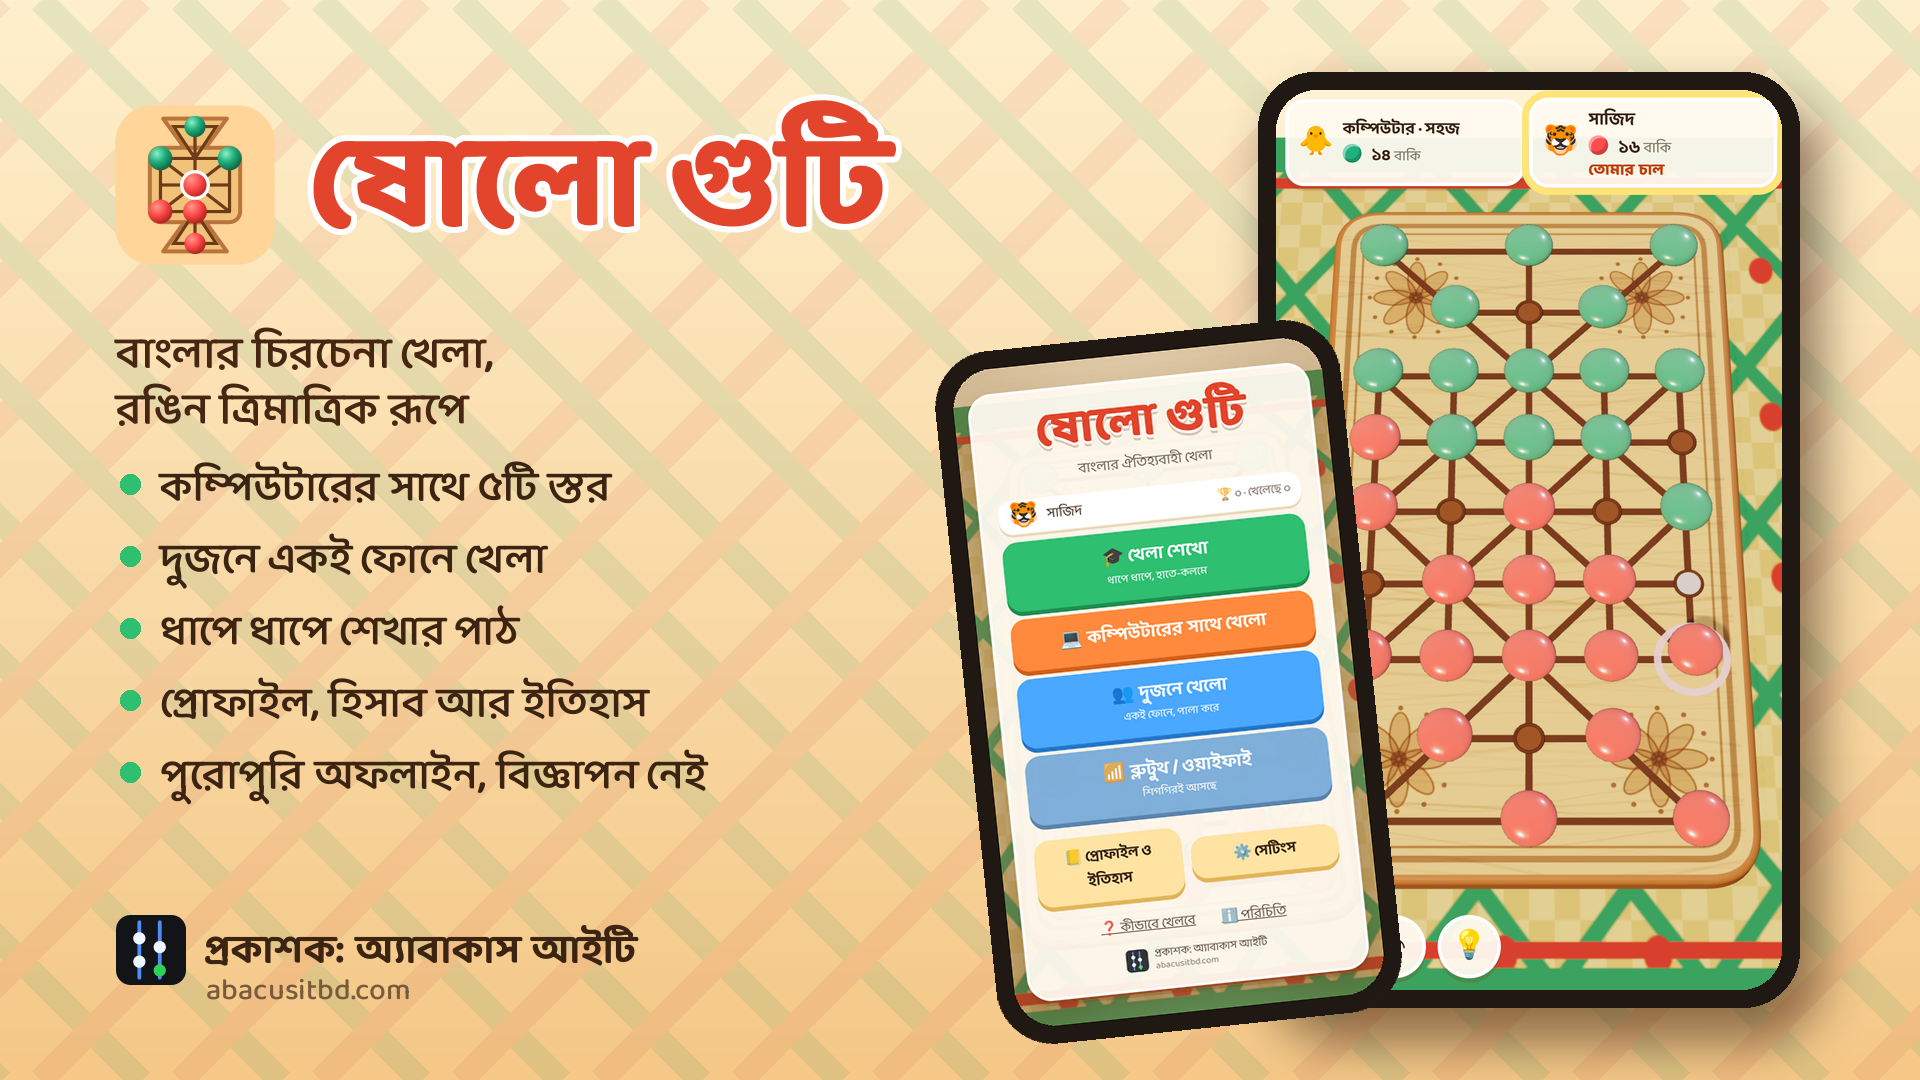
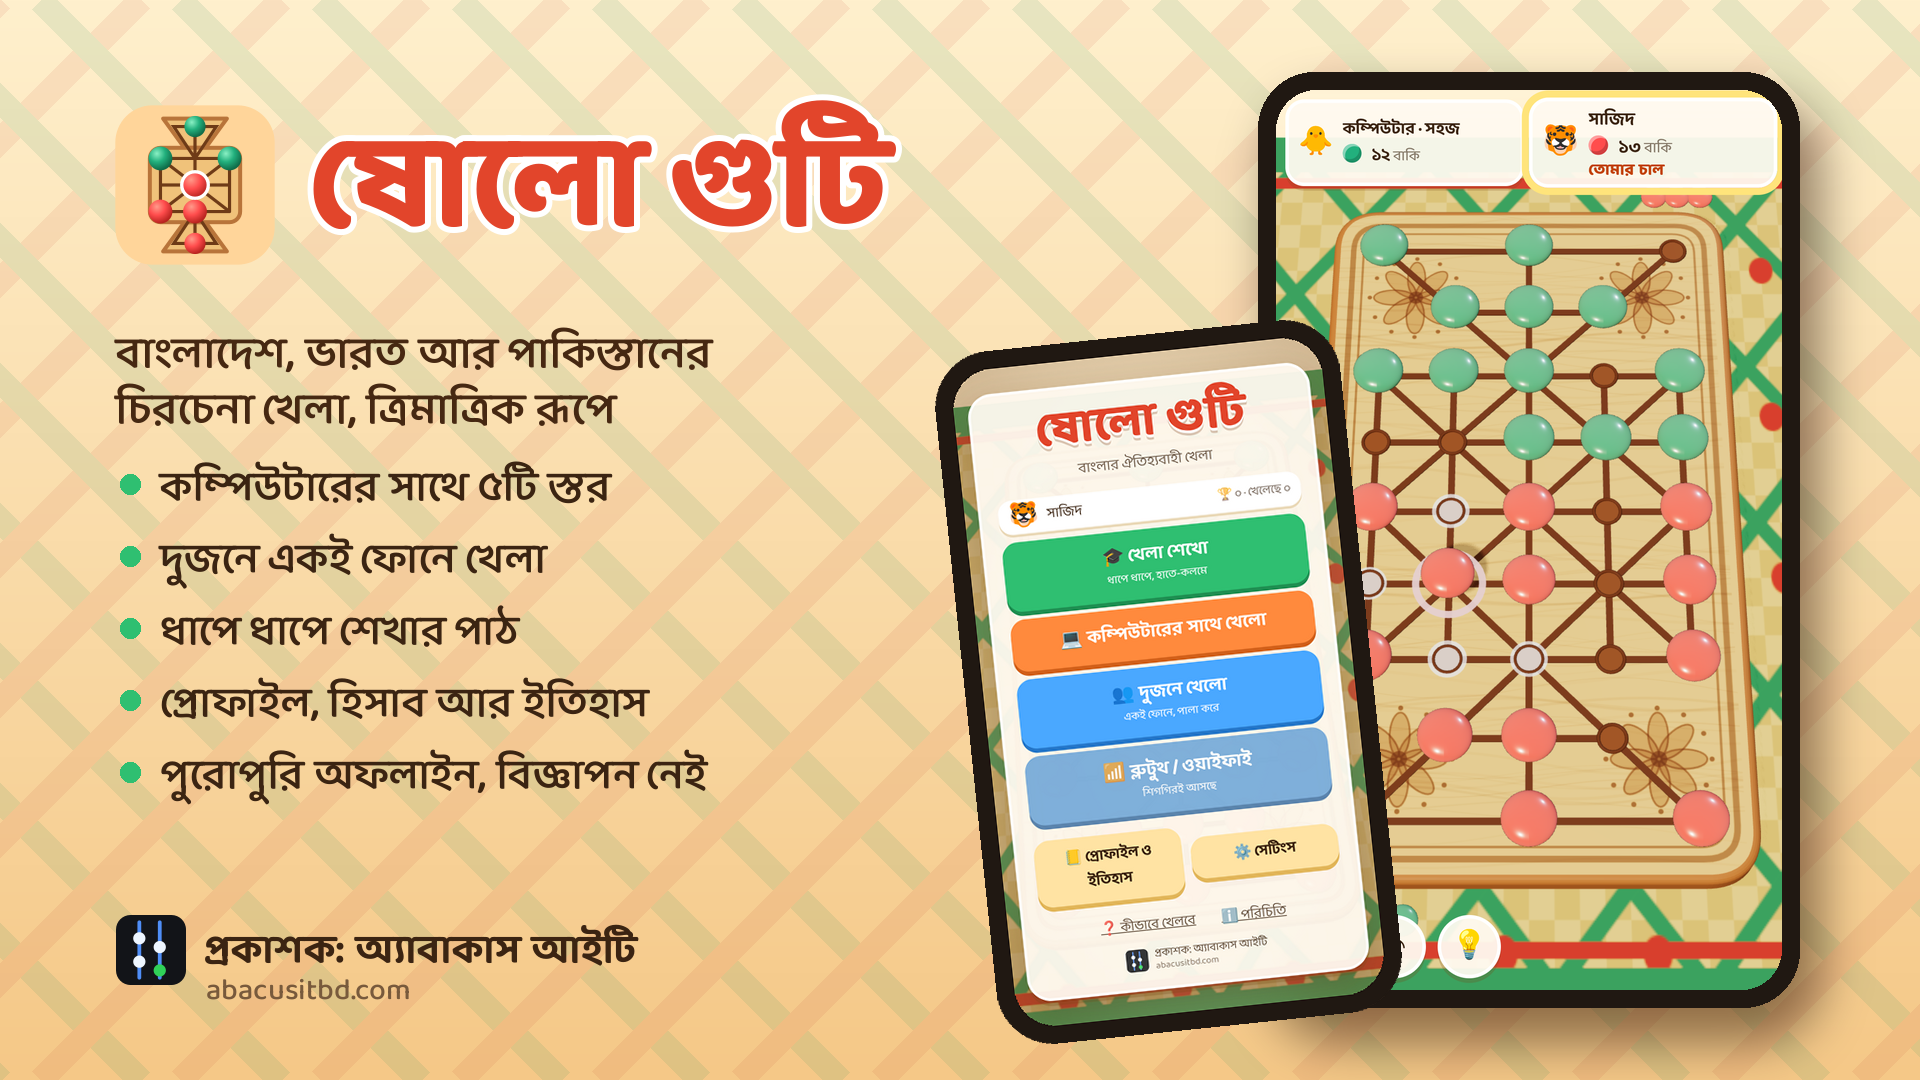
Bangladesh, India and Pakistan; more keywords; new covers

diff --git a/README.md b/README.md
@@ -1,6 +1,6 @@
 # Sholo Guti (ষোলো গুটি)
 
-**The classic 16-guti board game of Bangladesh, in colourful 3D.** Free, offline, no ads. By [Abacus IT](https://abacusitbd.com).
+**The classic 16-guti board game of Bangladesh, India and Pakistan, in colourful 3D.** Free, offline, no ads. By [Abacus IT](https://abacusitbd.com).
 
 ![Sholo Guti](cover-en.png)
 
@@ -15,8 +15,8 @@
 
 ## About the game
 
-Sholo Guti ("sixteen pieces", also called 16 Guti or Sixteen Soldiers) is the much-loved village board game of
-Bangladesh, played for generations on courtyards, verandas and carved wooden boards.
+Sholo Guti ("sixteen pieces", also called 16 Guti, Solah Goti or Sixteen Soldiers) is the much-loved village board
+game of Bangladesh, India and Pakistan, played for generations on courtyards, verandas and carved wooden boards.
 
 - Play the computer at 5 levels (Beginner, Easy, Medium, Hard, Expert), or a friend on one device
 - Step-by-step tutorial and a full "How to play" guide
@@ -35,7 +35,7 @@ Capture all enemy gutis, or leave them with no move, to win.
 
 ![ষোলো গুটি](cover-bn.png)
 
-**বাংলার চিরচেনা ষোলো গুটি খেলা, রঙিন ত্রিমাত্রিক রূপে।** সম্পূর্ণ ফ্রি, অফলাইন, কোনো বিজ্ঞাপন নেই। প্রকাশক: [অ্যাবাকাস আইটি](https://abacusitbd.com)।
+**বাংলাদেশ, ভারত আর পাকিস্তানের চিরচেনা ষোলো গুটি খেলা, রঙিন ত্রিমাত্রিক রূপে।** সম্পূর্ণ ফ্রি, অফলাইন, কোনো বিজ্ঞাপন নেই। প্রকাশক: [অ্যাবাকাস আইটি](https://abacusitbd.com)।
 
 | কোথায় খেলবে | ডাউনলোড |
 |---|---|
@@ -54,4 +54,4 @@ Capture all enemy gutis, or leave them with no move, to win.
 ঠিক পেছনের ঘর খালি থাকলে লাফ দিয়ে ওটা খেয়ে ফেলো, আবার খাওয়া গেলে আবার লাফ দাও। সব গুটি খেয়ে ফেললে, বা প্রতিপক্ষ আর
 চাল দিতে না পারলে, তুমি জিতবে।
 
-*Keywords: sholo guti, shologuti, 16 guti, sixteen soldiers, bead game, Bangladesh board game, ষোলো গুটি, ষোল গুটি, ষোলগুটি, ১৬ গুটি, গুটি খেলা*
+*Keywords: sholo guti, shologuti, 16 guti, solah goti, sola goti, sola gutti, 16 goti, sixteen goti, sixteen soldiers, bead game, Bangladesh board game, Indian board game, Pakistani board game, desi board game, ষোলো গুটি, ষোল গুটি, ষোলগুটি, ১৬ গুটি, গুটি খেলা, सोलह गोटी, सोलह गोटी खेल, सोला गोटी, गोटी खेल, देसी खेल, سولہ گوٹی, سولہ گوٹی کھیل, گوٹی کا کھیل*
